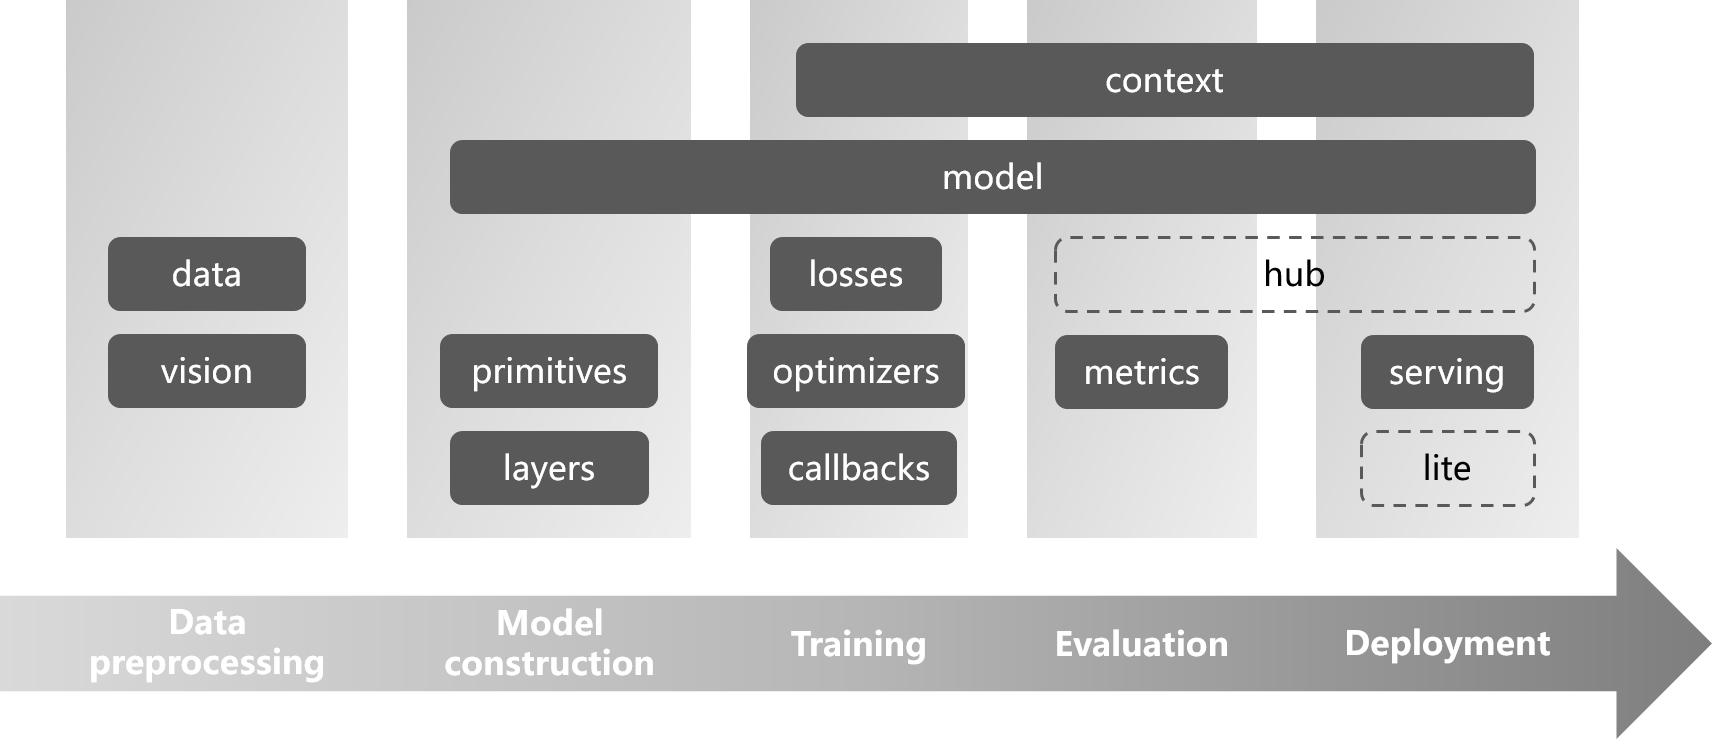
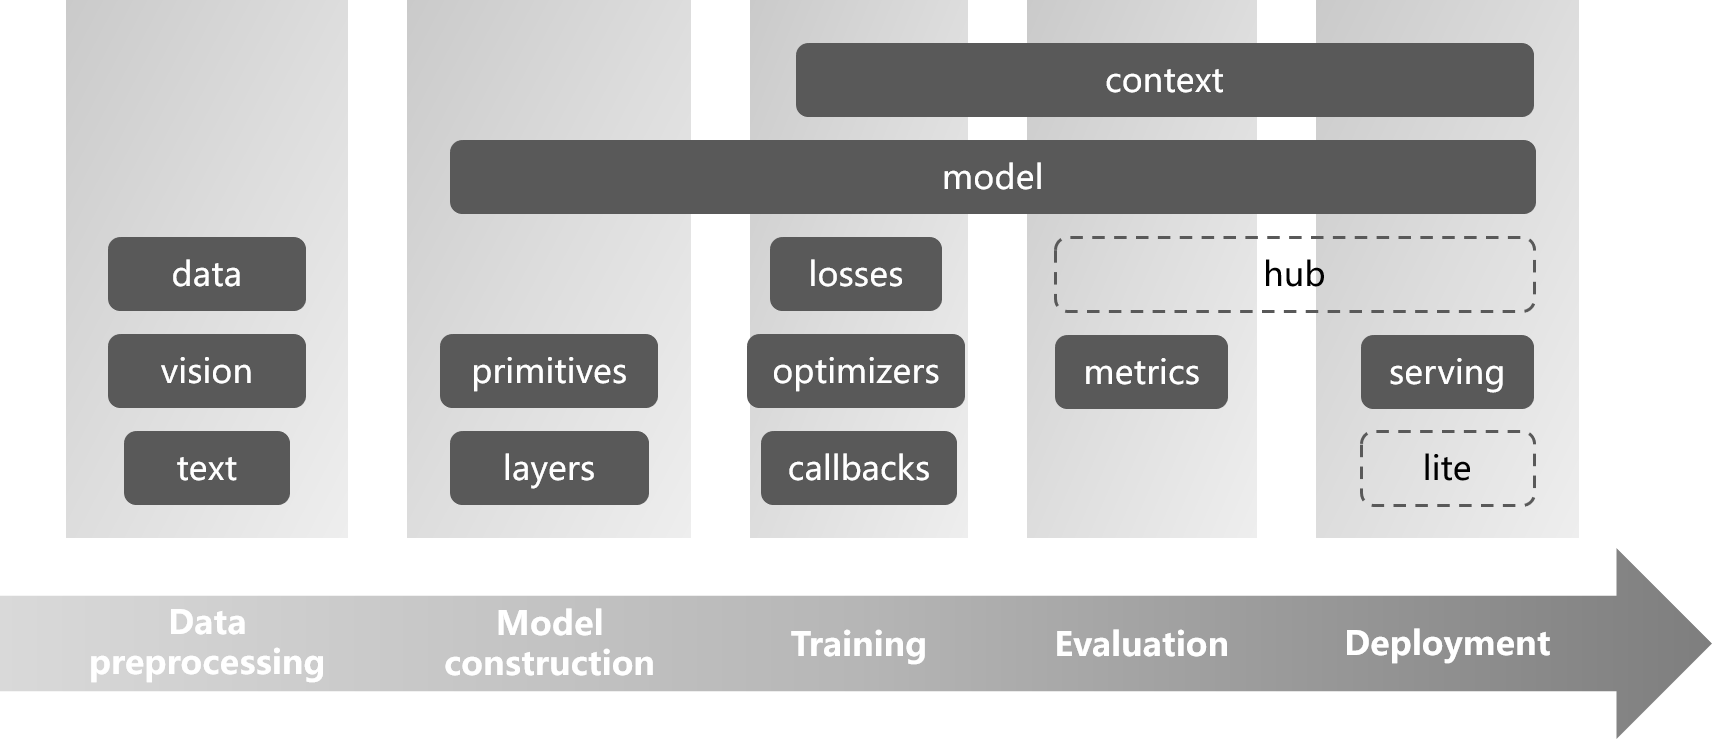
Adjust all the document to add text module

Changed region(s): [[0.0619, 0.5602, 0.1857, 0.6847]]

diff --git a/docs/en/source/design/concepts.md b/docs/en/source/design/concepts.md
@@ -21,7 +21,7 @@ Design goals of TinyMS:
 * Small runtime footprint that could be used on mobile, edge or cloud.
 * Standardizing spec for model training script format.
 
-![TinyMS Architecture](../_static/tinyms-architecture.png) 
+![TinyMS Architecture](../_static/tinyms-architecture.png)
 
 ### Workflow analysis
 
@@ -46,6 +46,7 @@ TinyMS has the following modules:
 | model | Model High Level API and Predefined Network | `from tinyms.model import Model, lenet5` |
 | serving | Model Serving | `from tinyms.serving import predict` |
 | vision | Computer Vision Related Data Processing | `from tinyms.vision import mnist_transform, Resize` |
+| text | Natural Language Processing Related Data Processing | `from tinyms.text import Lookup` |
 | callbacks | Callbacks During Model Training | `from tinyms.callbacks import ModelCheckpoint` |
 | common | Basic Components Including Tensor, Numpy Style Functions | `from tinyms import Tensor, array` |
 | context | Global Context | `from tinyms import context` |
@@ -78,7 +79,7 @@ from tinyms.data import MnistDataset
 mnist_ds = MnistDataset(mnist_path, shuffle=True)
 ```
 
-### Data preprocessing (*vision*)
+### Data preprocessing (*vision*, *text*)
 
 Usually in the model development workflow, data processing presents a big challenge: insufficient data, heavy manual labeling task, irregular data format and many other issues. Any of them could affect the network accuracy after training. Most frameworks provide data processing modules. Take MindSpore as an example, it currently provides data processing functions for common scenarios such as CV and NLP (for relevant interface definitions, please refer to [`mindspore.dataset.vision`](https://www.mindspore.cn/doc/api_python/en/r1.1/mindspore/mindspore.dataset.vision.html) and [`mindspore.dataset.text`](https://www.mindspore.cn/doc/api_python/en/r1.1/mindspore/mindspore.dataset.text.html)), the user can directly call the preset data processing operator to process pictures or text, and then construct a data processing pipeline to efficiently parallelize massive data (see [here](https://www.mindspore.cn/news/newschildren?id=399)).
 

diff --git a/docs/zh_CN/source/design/concepts.md b/docs/zh_CN/source/design/concepts.md
@@ -45,6 +45,7 @@ TinyMS的架构目标：
 | model | Model高阶API以及预置网络 | `from tinyms.model import Model, lenet5` |
 | serving | 模型部署模块 | `from tinyms.serving import predict` |
 | vision | CV领域相关的数据处理 | `from tinyms.vision import mnist_transform, Resize` |
+| text | NLP领域相关的数据处理 | `from tinyms.text import Lookup` |
 | callbacks | 模型训练过程的回调处理 | `from tinyms.callbacks import ModelCheckpoint` |
 | common | 基础组件，包括Tensor、numpy风格的函数 | `from tinyms import Tensor, array` |
 | context | 全局上下文 | `from tinyms import context` |
@@ -79,7 +80,7 @@ from tinyms.data import MnistDataset
 mnist_ds = MnistDataset(mnist_path, shuffle=True)
 ```
 
-### 数据处理（*vision*）
+### 数据处理（*vision*和*text*）
 
 通常在构建AI模型开发应用时，数据处理是我们面临的第一大挑战：数据量不足、人为标注工作量大、数据格式不规范等问题都又可能导致训练之后的网络精度不达标，因此绝大多数AI框架都会提供数据处理的相关模块。以MindSpore为例，MindSpore当前提供CV和NLP等常用场景的数据处理功能（相关接口定义可以查阅[`mindspore.dataset.vision`](https://www.mindspore.cn/doc/api_python/zh-CN/r1.1/mindspore/mindspore.dataset.vision.html)和[`mindspore.dataset.text`](https://www.mindspore.cn/doc/api_python/zh-CN/r1.1/mindspore/mindspore.dataset.text.html)），用户可以直接调用其中预设的数据处理算子对图片或文本进行处理，然后通过构建数据处理pipeline来对海量数据进行高效并行处理（详见[此处](https://www.mindspore.cn/news/newschildren?id=399)）。
 
